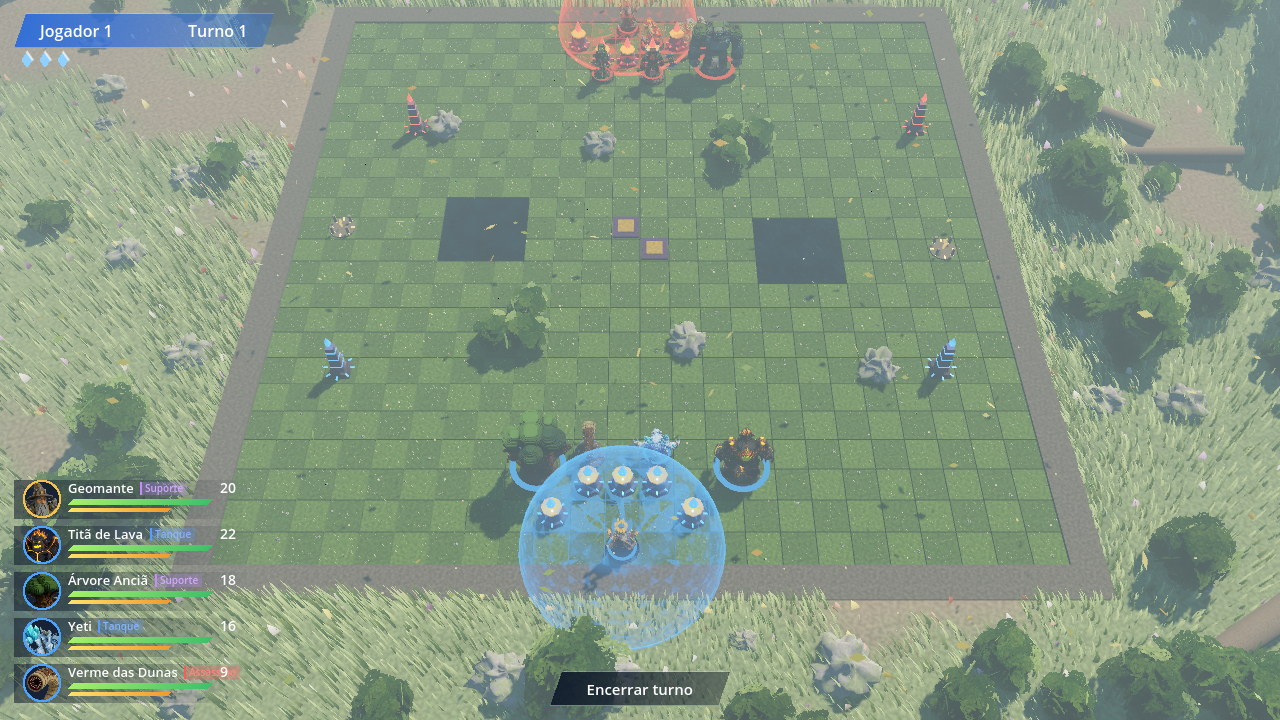
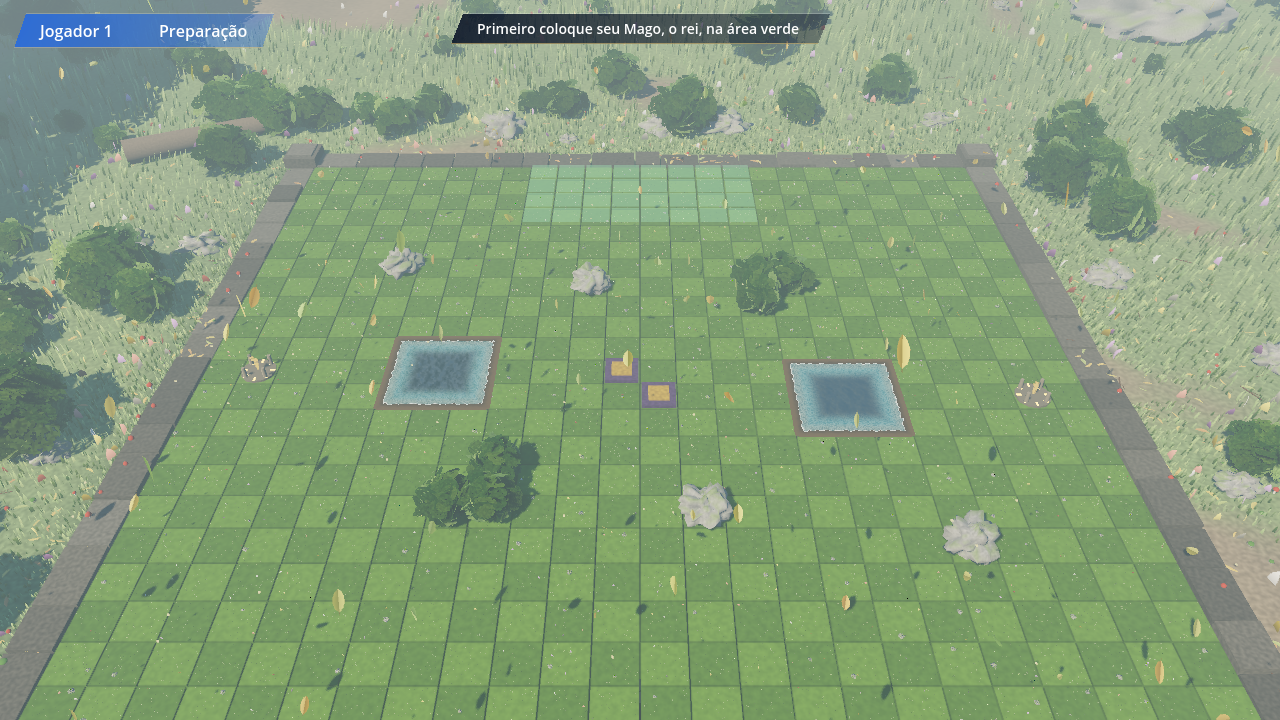
README da v0.4: tutorial, ficha dos bonecos e mapas mais realistas

diff --git a/README.md b/README.md
@@ -7,7 +7,7 @@ Derrube o Mago inimigo para vencer, sem perder o seu.
 
 ## Baixar e jogar (Windows)
 
-1. Abra a aba **[Releases](../../releases/latest)** e baixe `XequeMago-v0.3-windows.zip`.
+1. Abra a aba **[Releases](../../releases/latest)** e baixe `XequeMago-v0.4-windows.zip`.
 2. Extraia o zip numa pasta.
 3. Rode `XequeMago.exe`. Os dois arquivos (`.exe` e `.pck`) precisam ficar na mesma pasta.
 
@@ -18,8 +18,13 @@ Requisitos: Windows 10 ou 11 (64 bits) e placa de vídeo com Vulkan.
 
 ## Modos
 
+- **Tutorial**: ensina a andar, atacar, quebrar a torre do escudo e derrubar o Mago, passo a passo
 - **Contra a CPU**
 - **Dois jogadores** no mesmo computador, passando a vez
+
+## Tutorial
+
+![Tutorial](imagens/09_tutorial.png)
 
 ## Como funciona
 
@@ -50,6 +55,10 @@ Cada boneco tem **1 golpe de dano** (fraco e com condição), **4 golpes de efei
 
 ![Classes e golpes](imagens/05_classes_e_golpes.png)
 
+Na escolha do exército, o botão **!** ao lado de cada boneco abre a ficha dele: classe, passiva, atributos e golpes.
+
+![Ficha do boneco](imagens/10_ficha.png)
+
 ## Mapas e eventos aleatórios
 
 Cinco mapas, cada um com 3 eventos. Cada evento é anunciado uma rodada antes num cartaz no meio da tela, com as casas
@@ -66,6 +75,8 @@ e, se durar mais de uma rodada, um aviso no canto mostra quantas rodadas faltam:
 
 ![Evento: névoa](imagens/06_evento_nevoa.png)
 
+![Lago](imagens/08_lago.png)
+
 ## Controles
 
 - **W A S D**: mover a câmera
@@ -81,5 +92,5 @@ bugs e ideias. Prints ajudam muito.
 
 ---
 
-Versão 0.3 (protótipo). Feito com Godot 4.5. Este repositório traz apenas o jogo para download;
+Versão 0.4 (protótipo). Feito com Godot 4.5. Este repositório traz apenas o jogo para download;
 o código-fonte não está público.
